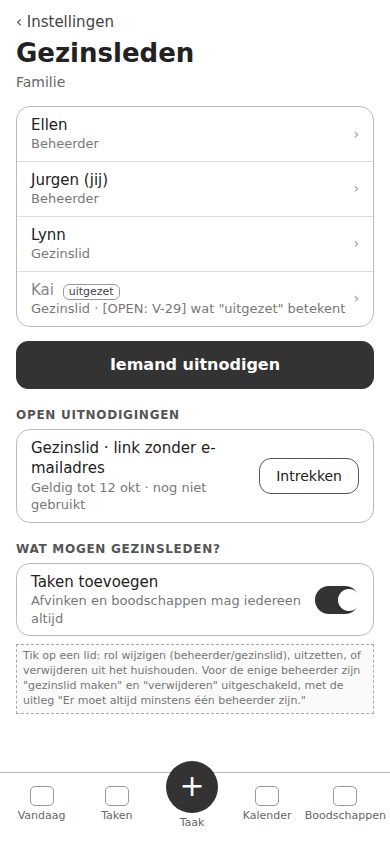
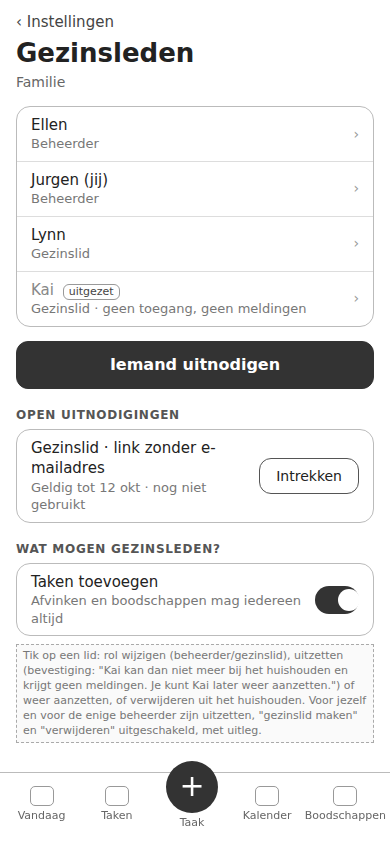
UX_SPEC: V-28/V-29 verwerkt, geen open vragen
Claude-Session: https://claude.ai/code/session_01WXgN2KAqhzPZRNUJQnq1N3

diff --git a/docs/prototype/wireframes/16-gezinsleden.html b/docs/prototype/wireframes/16-gezinsleden.html
@@ -6,7 +6,7 @@
     <div class="li"><div>Ellen<small>Beheerder</small></div><span class="v"></span></div>
     <div class="li"><div>Jurgen (jij)<small>Beheerder</small></div><span class="v"></span></div>
     <div class="li"><div>Lynn<small>Gezinslid</small></div><span class="v"></span></div>
-    <div class="li"><div style="color:#888">Kai <span class="tag">uitgezet</span><small>Gezinslid · [OPEN: V-29] wat "uitgezet" betekent</small></div><span class="v"></span></div>
+    <div class="li"><div style="color:#888">Kai <span class="tag">uitgezet</span><small>Gezinslid · geen toegang, geen meldingen</small></div><span class="v"></span></div>
   </div>
   <div class="btn pri" style="margin-top:14px">Iemand uitnodigen</div>
 
@@ -21,7 +21,7 @@
     <div class="sec-h">Wat mogen gezinsleden?</div>
     <div class="list"><div class="li nochev"><div>Taken toevoegen<small>Afvinken en boodschappen mag iedereen altijd</small></div><span class="toggle on"></span></div></div>
   </section>
-  <div class="wf-note">Tik op een lid: rol wijzigen (beheerder/gezinslid), uitzetten, of verwijderen uit het huishouden. Voor de enige beheerder zijn "gezinslid maken" en "verwijderen" uitgeschakeld, met de uitleg "Er moet altijd minstens één beheerder zijn."</div>
+  <div class="wf-note">Tik op een lid: rol wijzigen (beheerder/gezinslid), uitzetten (bevestiging: "Kai kan dan niet meer bij het huishouden en krijgt geen meldingen. Je kunt Kai later weer aanzetten.") of weer aanzetten, of verwijderen uit het huishouden. Voor jezelf en voor de enige beheerder zijn uitzetten, "gezinslid maken" en "verwijderen" uitgeschakeld, met uitleg.</div>
 </main>
 <nav class="bar"><a><i></i>Vandaag</a><a><i></i>Taken</a><a class="plus"><i></i>Taak</a><a><i></i>Kalender</a><a><i></i>Boodschappen</a></nav>
 </body></html>

diff --git a/docs/UX_SPEC.md b/docs/UX_SPEC.md
@@ -1,10 +1,10 @@
 # UX-specificatie — Takenlijstje
 
-Versie: ronde 1 (2026-09-28) · Kwaliteitsniveau 2 · Werkwijze §15 (bestaand project), fase 3.
+Versie: ronde 2 (2026-09-28, V-28 en V-29 verwerkt) · Kwaliteitsniveau 2 · Werkwijze §15 (bestaand project), fase 3.
 Basis: `docs/PRODUCT_SPEC.md` (ronde 3), de besluiten en antwoorden in `docs/PROGRESS.md`, `docs/INVENTARIS.md` en de huidige schermen in `docs/screenshots/bestaand/`.
 Dit document beschrijft **hoe de gebruiker zijn doel bereikt**: structuur, flows, schermen en states. Kleur, typografie en vorm zijn werk voor de visual-designer; de wireframes zijn bewust grijs.
 
-Open plekken zijn gemarkeerd met `[OPEN: V-nr]` (zie §12).
+Er zijn geen open plekken meer: V-28 en V-29 zijn beantwoord (zie §12).
 
 ---
 
@@ -60,9 +60,8 @@ Per persoon: meldingen, meldingsvoorkeuren, pushapparaten
 | **Kop, rechtsboven** | Meldingen (bel met aantal ongelezen) · Instellingen (tandwiel) | Meldingen open je via de badge of een pushmelding; instellingen zelden |
 | **Kaart onderaan Vandaag** | Overzicht ("Deze week: 9 gedaan · 7 op tijd · 1 vergeten ›") | Reflectie, ongeveer wekelijks. Hoort bij de vraag "hoe gaat het", dus bij Vandaag |
 
-`[OPEN: V-28]` — Dit wijkt af van de huidige app: **Boodschappen gaat van het kopicoon naar de onderbalk, Huishouden(-overzicht) gaat uit de onderbalk** en wordt een kaart op Vandaag.
+**Besluit V-28 (Jurgen: "Volg voorstel"):** dit wijkt af van de huidige app: **Boodschappen gaat van het kopicoon naar de onderbalk, Huishouden(-overzicht) gaat uit de onderbalk** en wordt een kaart onderaan Vandaag.
 - Onderbouwing: boodschappen wordt (bijna) dagelijks gebruikt, ook met één hand in de winkel; een klein icoon rechtsboven is dan het slechtst bereikbare punt van het scherm. Het overzicht wordt zonder punten en zonder statistieken per persoon veel kleiner (UC-06) en is een wekelijkse blik, geen dagelijkse bestemming.
-- Voorstel: zo doen. Alternatief: huidige indeling houden (Huishouden in de balk, Boodschappen in de kop).
 
 ### Regels
 - Onderbalk op elk ingelogd scherm, ook op Meldingen, Instellingen en Overzicht. Het actieve tabblad is gemarkeerd; op Meldingen en Instellingen is geen tabblad actief.
@@ -184,7 +183,11 @@ Instellingen › Huishouden › onderaan **Huishouden verwijderen…** → pagin
 
 ### 4.15 Gezinsleden beheren (UC-12) — beheerder
 Instellingen › Gezinsleden (wireframe 16) → tik een lid → sheet: naam, rol (Beheerder / Gezinslid), **Uitzetten** / **Weer aanzetten**, **Verwijderen uit huishouden** (bevestiging). Voor de enige beheerder zijn "Gezinslid maken" en "Verwijderen" uitgeschakeld met "Er moet altijd minstens één beheerder zijn." (BR-24). Jezelf verwijderen kan hier niet (dat is "Account verwijderen").
-Wat "uitzetten" voor het lid betekent, is open: `[OPEN: V-29]`.
+**Uitzetten (besluit V-29, Jurgen: "Volg voorstel"):** een uitgezet lid heeft **geen toegang tot het huishouden** en krijgt **geen meldingen**. Zijn account en zijn notities blijven bestaan. **Weer aanzetten herstelt alles.**
+- Beheerder: tik een lid → **Uitzetten** → bevestiging "Kai uitzetten? Kai kan dan niet meer bij het huishouden en krijgt geen meldingen. Je kunt Kai later weer aanzetten." → **Uitzetten** / Annuleren. In de ledenlijst staat het lid grijs met het label "uitgezet" en de regel "Geen toegang, geen meldingen". **Weer aanzetten** heeft geen bevestiging nodig; melding "Kai heeft weer toegang".
+- Uitzetten is niet mogelijk voor jezelf en niet voor de enige beheerder (anders kan niemand het huishouden nog beheren; volgt uit BR-24). Die knop is dan uitgeschakeld met "Er moet altijd minstens één beheerder met toegang zijn."
+- Het uitgezette lid zelf: bij openen van de app (of bij de eerstvolgende verbinding) één scherm: "Je hebt op dit moment geen toegang tot ‘Familie’. Een beheerder kan je weer toegang geven." met **Uitloggen**. Geen taken, geen onderbalk. Account verwijderen blijft bereikbaar via een link op dat scherm. De offline opgeslagen stand op het toestel verdwijnt dan (technische uitwerking voor de architect).
+- Notities van een uitgezet lid blijven met zijn naam zichtbaar bij de taak.
 
 ## 5. Schermen
 
@@ -248,7 +251,7 @@ Per scherm: **Behouden / Herwerken / Vervallen** ten opzichte van de huidige app
 - **Primaire actie:** afvinken (in de winkel) / toevoegen (thuis). Het invoerveld staat bovenaan omdat thuis toevoegen het meest voorkomt; afvinken zit in de lijst eronder.
 - **Opbouw:** kop "Boodschappen · 6 te halen · 2 gekocht" · invoerveld "Bijv. 2 melk" + **Toevoegen** · Vaak gekocht (chips, twee regels, "meer…") · categorieën met producten (aantal als label, notitie als tweede regel) · **Gekocht (n)** inklapbaar · **Klaar met winkelen**.
 - **Vervalt:** avatars ("toegevoegd door"), het ⋯-menu per product (tik op de rij opent bewerken), de onduidelijke tussenstatus van het vakje (INVENTARIS §5, "Cola"), "In je mandje" wordt "Gekocht".
-- Boodschappen staat in de onderbalk in plaats van als icoon in de kop: zie V-28.
+- Boodschappen staat in de onderbalk in plaats van als icoon in de kop (besluit V-28).
 - **Rollen:** geen verschil (BR-42).
 
 ### 5.7 Meldingen — BEHOUDEN met aanpassingen · wireframe 13
@@ -354,7 +357,7 @@ Algemene afspraken (gelden voor alle schermen, lossen S-01 op):
 | Boodschappen | "De lijst is leeg. Wat moet er gehaald worden?" + Vaak gekocht | skelet | algemeen | "Lijst afgerond · Ongedaan maken" | Klaar met winkelen verborgen als niets gekocht is | — | — | toevoegen en afvinken via wachtrij |
 | Meldingen | "Nog geen meldingen. Hier komt een seintje als iets bijna moet of verlopen is." | skelet | algemeen | — | Alles gelezen uit als alles gelezen is | "Laden…" bij Oudere | meer dan 30: "Oudere meldingen laden" | cache, alleen lezen |
 | Meldingen instellen | — | skelet | "Opslaan lukte niet" per schakelaar, schakelaar springt terug | "Opgeslagen" | aanzetten uit als de browser push niet kent, met uitleg (§4.10) | schakelaar toont bezig | — | uitgeschakeld |
-| Instellingen + subpagina's | Gezinsleden met alleen jou: "Nodig iemand uit om samen te werken" | skelet | algemeen | "Opgeslagen" / "Link gekopieerd" | enige beheerder (BR-24); gezinslid: beheer verborgen | "Bezig…" | — | alleen bekijken, knoppen uit |
+| Instellingen + subpagina's | Gezinsleden met alleen jou: "Nodig iemand uit om samen te werken" | skelet | algemeen | "Opgeslagen" / "Link gekopieerd" / "Kai heeft weer toegang" | enige beheerder (BR-24): degraderen, verwijderen en uitzetten uit; jezelf uitzetten uit; gezinslid: beheer verborgen | "Bezig…" | — | alleen bekijken, knoppen uit |
 | Overzicht | S-03: zie §5.9 | skelet | algemeen | — | — | — | periode met weinig gegevens: getallen tonen, lijsten weglaten | cache |
 | Inloggen | — | knop "Bezig…" | zie §4.12 | door naar Vandaag / "Check je mail" | Inloggen uit bij leeg veld | "Bezig…" | — | "Je bent offline. Inloggen kan alleen met verbinding." |
 | Uitnodiging | — | "Uitnodiging controleren…" | zie §4.11 | "Welkom bij Familie" | — | "Bezig…" | — | offline-melding |
@@ -390,6 +393,8 @@ In de praktijk zelden gebruikt (het gezin bestaat al, UC-10), maar moet kloppen.
 | Instellingen › Standaardtaken, Huishouden | ja | nee | rij verborgen |
 | Gezinsleden beheren, uitnodigen | ja | nee (alleen bekijken) | knoppen verborgen, uitlegregel |
 | Account verwijderen | ja, niet als enige beheerder | ja | uitgeschakeld met reden |
+| Lid uitzetten / weer aanzetten (V-29) | ja, niet zichzelf en niet de enige beheerder | nee | verborgen (gezinslid) / uitgeschakeld met reden |
+| Toegang tot het huishouden als je uitgezet bent | — | — | alleen het scherm "Geen toegang" met Uitloggen (§4.15) |
 
 De maker van een taak of reeks wordt nooit getoond (V-25); uitlegregels noemen hem niet ("wie de reeks heeft ingesteld").
 
@@ -434,9 +439,11 @@ HTML in `docs/prototype/wireframes/` (gedeelde stijl `wf.css`), screenshots op 3
 
 ## 12. Open vragen en aannames
 
-**Vragen voor Jurgen**
-- **V-28** — Navigatie (§3): Boodschappen in de onderbalk, Huishouden-overzicht eruit (wordt een kaart onderaan Vandaag). Voorstel: ja.
-- **V-29** — Wat betekent "uitzetten" van een gezinslid nu niemand taken toegewezen krijgt (§4.15)? In de huidige app sloot uitzetten iemand alleen uit van toewijzen en meldingen; hij kon verder alles blijven zien en doen. Voorstel: uitgezet = kan niet meer bij het huishouden (niet inloggen in de app, geen meldingen), account en notities blijven; weer aanzetten herstelt alles. Alternatief: "uitzetten" weghalen en alleen "verwijderen uit huishouden" houden.
+**Vragen voor Jurgen:** geen open vragen.
+
+**Beantwoord (2026-09-28, letterlijk in `docs/PROGRESS.md`):**
+- **V-28** — "Volg voorstel": Boodschappen in de onderbalk, Huishouden-overzicht als kaart onderaan Vandaag. Verwerkt in §3, §5.1, §5.6.
+- **V-29** — "Volg voorstel": uitgezet = geen toegang tot het huishouden en geen meldingen; account en notities blijven; weer aanzetten herstelt alles. Verwerkt in §4.15, §7, §9 en wireframe 16.
 
 **Aannames (raken geen rechten, gegevens, privacy of scope)**
 - `[AANNAME]` Bij account verwijderen blijven notities met de naam van de schrijver staan (volgt uit V-25 en PRODUCT_SPEC §8: "tot de taak verwijderd wordt").
